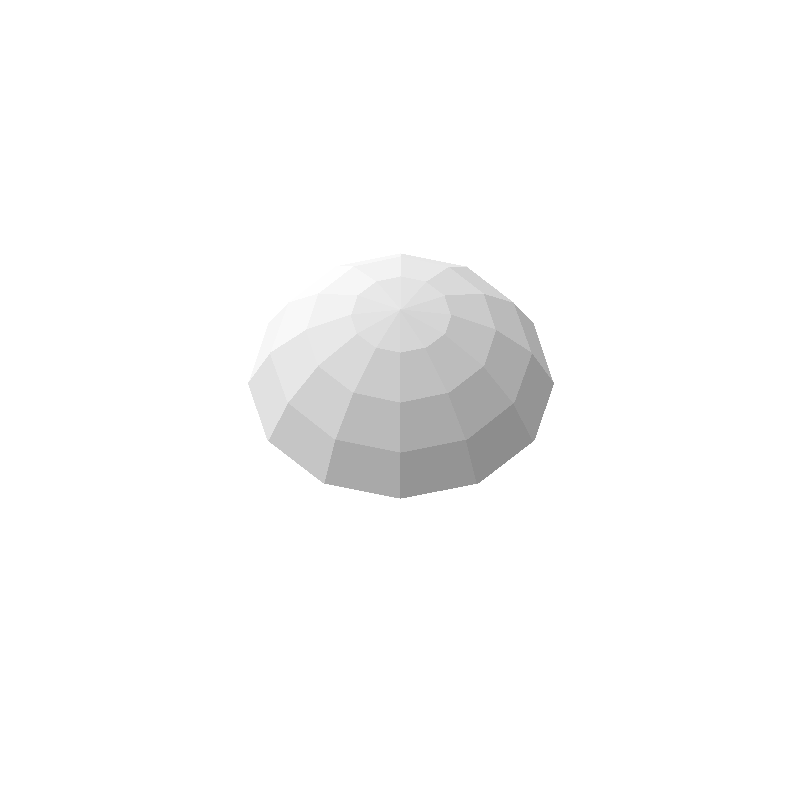
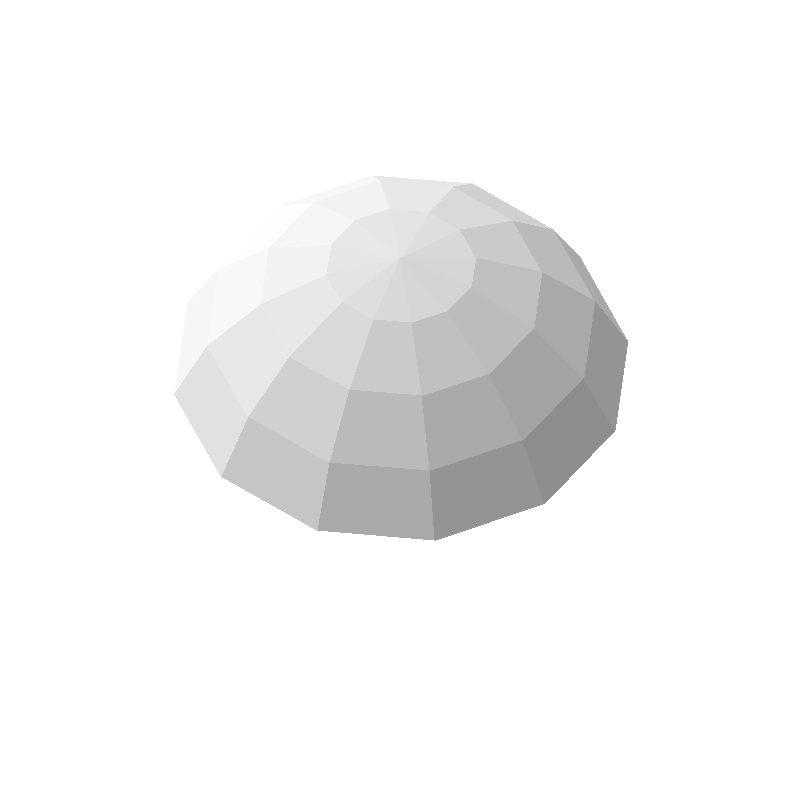
PyWeek37: tube renders

Changed region(s): [[0.2188, 0.2188, 0.7812, 0.6875], [0.5938, 0.4375, 0.625, 0.4688]]

diff --git a/pyweek37/src/render.py b/pyweek37/src/render.py
@@ -1,5 +1,5 @@
 import pygame, math
-from . import view, pview, maff
+from . import view, pview, maff, grid
 
 def minus(p0, p1):
 	x0, y0, z0 = p0
@@ -44,7 +44,7 @@ def renderquad(surf, pGs, color0):
 	rendertri(surf, (p1, p0, p2), color0)
 	rendertri(surf, (p1, p2, p3), color0)
 
-Rdome = 0.4
+Rdome = 0.6
 Rphi0 = 0.3
 
 def pdome(ftheta, fphi):
@@ -66,15 +66,69 @@ def renderdome(scale):
 	surf = pygame.Surface((2 * scale, 2 * scale)).convert_alpha()
 	surf.fill((0, 0, 0, 0))
 	for jtheta in range(ntheta):
-		theta0 = math.tau * jtheta / ntheta
-		theta1 = math.tau * ((jtheta + 1) % ntheta) / ntheta
 		for jphi in range(nphi):
-			phi0 = math.tau * jphi / nphi
-			phi1 = math.tau * ((jphi + 1) % nphi) / nphi
 			ps = [(theta, phi) for phi in (jphi, jphi + 1) for theta in (jtheta, jtheta + 1)]
 			pGs = [pdome(theta / ntheta, phi / nphi) for theta, phi in ps]
 			renderquad(surf, pGs, (255, 255, 255))
 	return surf
+
+rtube = 0.2
+def pstraight(ftheta, a, beta):
+	theta = math.tau * ftheta
+	x, y, z = rtube, 2/3 * grid.s * 1.01 * math.mix(-1, 1, a), 0
+	x, z = math.R(-theta, (x, z))
+	z += rtube
+	x, y = math.R(-beta, (x, y))
+	return x, y, z
+# d = -1 left turn, d = 1 right turn
+def pturn(ftheta, fphi, beta, d):
+	theta = math.tau * ftheta
+	phi = math.tau / 6 * (fphi * 1.02 - 0.01)
+	x, y, z = -d + rtube * math.cos(theta), 0, rtube * math.sin(theta)
+	x, y = math.R(-d * phi, (x, y))
+	x += d
+	y -= 2/3 * grid.s
+	z += rtube
+	x, y = math.R(-beta, (x, y))
+	return x, y, z
+
+def renderstraight(scale, beta):
+	view.VscaleG = scale
+	view.xG0, view.yG0 = 0, 0
+	pview.center = scale, scale
+	ntheta = 100
+	surf = pygame.Surface((2 * scale, 2 * scale)).convert_alpha()
+	surf.fill((0, 0, 0, 0))
+	for jtheta in range(ntheta):
+		ps = [(theta, a) for a in (1, 0) for theta in (jtheta, jtheta + 1)]
+		pGs = [pstraight(theta / ntheta, a, beta) for theta, a in ps]
+		renderquad(surf, pGs, (50, 50, 50))
+	for jtheta in range(ntheta):
+		ps = [(theta, a) for a in (0, 1) for theta in (jtheta, jtheta + 1)]
+		pGs = [pstraight(theta / ntheta, a, beta) for theta, a in ps]
+		renderquad(surf, pGs, (255, 255, 255))
+	return surf
+
+def renderturn(scale, beta, d):
+	view.VscaleG = scale
+	view.xG0, view.yG0 = 0, 0
+	pview.center = scale, scale
+	ntheta = 100
+	nphi = 40
+	surf = pygame.Surface((2 * scale, 2 * scale)).convert_alpha()
+	surf.fill((0, 0, 0, 0))
+	for jtheta in range(ntheta):
+		for jphi in range(nphi):
+			ps = [(theta, phi) for phi in (jphi, jphi + 1) for theta in (jtheta, jtheta + 1)]
+			pGs = [pturn(theta / ntheta, phi / nphi, beta, d) for theta, phi in ps]
+			renderquad(surf, pGs, (50, 50, 50))
+	for jtheta in range(ntheta):
+		for jphi in range(nphi):
+			ps = [(theta, phi) for phi in (jphi + 1, jphi) for theta in (jtheta, jtheta + 1)]
+			pGs = [pturn(theta / ntheta, phi / nphi, beta, d) for theta, phi in ps]
+			renderquad(surf, pGs, (255, 255, 255))
+	return surf
+
 
 
 if __name__ == "__main__":
@@ -82,14 +136,22 @@ if __name__ == "__main__":
 	pview.set_mode((800, 800))
 	setcamera()
 	pygame.image.save(renderdome(400), "img/dome.png")
-	while not any(event.type == pygame.QUIT for event in pygame.event.get()):
-		pview.fill((0, 0, 0))
-		view.tip = math.cycle(pygame.time.get_ticks() * 0.0002)
-		view.tilt = pygame.time.get_ticks() * 0.0001
-		setcamera()
-		img = renderdome(400)
-		pview.screen.blit(img, (0, 0))
-		pygame.display.flip()
+	for jbeta in range(6):
+		beta = jbeta * math.tau / 6
+		pygame.image.save(renderstraight(400, beta), f"img/tube-{jbeta}-{jbeta}.png")
+		jbetaL = (jbeta - 1) % 6
+		pygame.image.save(renderturn(400, beta, -1), f"img/tube-{jbeta}-{jbetaL}.png")
+		jbetaR = (jbeta + 1) % 6
+		pygame.image.save(renderturn(400, beta, 1), f"img/tube-{jbeta}-{jbetaR}.png")
+	if False:
+		while not any(event.type == pygame.QUIT for event in pygame.event.get()):
+			pview.fill((60, 30, 0))
+			view.tip = math.cycle(pygame.time.get_ticks() * 0.0002)
+			view.tilt = pygame.time.get_ticks() * 0.0001
+			setcamera()
+			img = renderturn(400, 0, 1)
+			pview.screen.blit(img, (0, 0))
+			pygame.display.flip()
 
 
 

diff --git a/pyweek37/src/state.py b/pyweek37/src/state.py
@@ -75,6 +75,7 @@ class Planet:
 		self.t += dt
 	def draw(self, glow = False):
 		graphics.drawdomeat(grid.GconvertH(self.pH))
+#		pygame.draw.circle(pview.screen, (255, 0, 255), view.DconvertG(grid.GconvertH(self.pH)), 3)
 	def draw_old(self, glow = False):
 		if not self.pH in visible:
 			return
@@ -99,7 +100,8 @@ class Planet:
 		
 	def info(self):
 		return [
-			f"pos: {self.pH}",
+			f"posH: {self.pH}",
+			f"posG: {grid.GconvertH(self.pH)}",
 			f"imports: {self.imports}",
 			f"demand: {self.demand}",
 			f"supply: {self.supply}",
@@ -119,10 +121,12 @@ class Tube:
 		self.consumer = None
 		self.supplied = False
 		self.t = 0
+		self.dirs = []
 	def think(self, dt):
 		self.t += dt
 	# Does not check for legality.
 	def add(self, pH):
+		self.dirs.append(grid.dirH(self.pHs[-1], pH))
 		self.pHs.append(pH)
 		if planetat(pH):
 			self.complete()
@@ -172,6 +176,7 @@ class Tube:
 			return True
 		if len(self.pHs) > 1 and pH == self.pHs[-1]:
 			self.pHs.pop()
+			self.dirs.pop()
 			return True
 		return False
 	# Drag interface. Either add to the end or back up 1.
@@ -180,6 +185,7 @@ class Tube:
 			return True
 		if len(self.pHs) > 1 and pH == self.pHs[-2]:
 			self.pHs.pop()
+			self.dirs.pop()
 			return True
 		return False
 	def pHalong(self, d):
@@ -203,6 +209,23 @@ class Tube:
 	def supplyto(self, planet):
 		return self.carry if planet is self.consumer and self.supplied and self.carry else None
 	def draw(self, glow = False):
+		pDs = [view.DconvertG(grid.GconvertH(pH)) for pH in self.pHs]
+		color = settings.colorcodes.get(self.carry, (160, 160, 160))
+		mix = (255, 255, 255) if glow else (0, 0, 0)
+		color = math.imix(color, mix, 0.5)
+		for j in range(len(self.dirs) - 1):
+			pG = grid.GconvertH(self.pHs[j+1])
+			graphics.drawtubeat(pG, color, self.dirs[j], self.dirs[j+1])
+		if self.carry and self.supplied:
+			d = self.supplier.t * 3 % 3
+			while True:
+				pH = self.pHalong(d)
+				if pH is None: break
+				pD = view.DconvertG(grid.GconvertH(pH))
+				beta = hud.factor(self.carry, "tube")
+				graphics.drawsymbolat(self.carry, pD, 0.7, beta)
+				d += 3
+	def draw_old(self, glow = False):
 		pDs = [view.DconvertG(grid.GconvertH(pH)) for pH in self.pHs]
 		color = settings.colorcodes.get(self.carry, (160, 160, 160))
 		mix = (255, 255, 255) if glow else (0, 0, 0)

diff --git a/pyweek37/src/graphics.py b/pyweek37/src/graphics.py
@@ -1,6 +1,6 @@
 import math, pygame, os.path
 from functools import cache
-from . import ptext, pview, view, settings
+from . import ptext, pview, view, settings, grid
 
 @cache
 def loadimg(filename):
@@ -23,6 +23,11 @@ def img0(iname, scale = 1, mask = None):
 def drawimgat(img, pD):
 	pview.screen.blit(img, img.get_rect(center = pD))
 
+def outlineH(pH):
+	pDs = [view.DconvertG(pG) for pG in grid.GoutlineH(pH)]
+	pygame.draw.lines(pview.screen, (0, 255, 255), True, pDs, 1)
+
+
 def drawsymbolatD(symbol, pD, fontsizeD, beta = 1):
 	color = math.imix((0, 0, 0), settings.colorcodes[symbol], beta)
 	ptext.draw(symbol, center = pD, color = color,
@@ -31,7 +36,13 @@ def drawsymbolat(symbol, pD, fontsizeG, beta = 1):
 	drawsymbolatD(symbol, pD, view.DscaleG(fontsizeG), beta)
 
 def drawdomeat(pG):
-	drawimgat(img0("dome", scale = view.VscaleG / 400, mask = (80, 100, 100)), view.DconvertG(pG))
+	scale = pview.f * view.VscaleG / 400
+	drawimgat(img0("dome", scale = scale, mask = (80, 100, 100)), view.DconvertG(pG))
+
+def drawtubeat(pG, mask, jbeta0, jbeta1):
+	scale = pview.f * view.VscaleG / 400
+	drawimgat(img0(f"tube-{jbeta0}-{jbeta1}", scale = scale, mask = mask), view.DconvertG(pG))
+	
 
 @cache
 def groundimg0():

diff --git a/pyweek37/src/grid.py b/pyweek37/src/grid.py
@@ -10,6 +10,7 @@ adjsH = [[0, 1], [1, 0], [1, -1], [0, -1], [-1, 0], [-1, 1]]
 outlinedH = [[1/3, 1/3], [2/3, -1/3], [1/3, -2/3],
 	[-1/3, -1/3], [-2/3, 1/3], [-1/3, 2/3]]
 adjsetH = set((dx, dy) for dx, dy in adjsH)
+adjdirH = {(dx, dy): j for j, (dx, dy) in enumerate(adjsH)}
 
 def HadjsH(pH):
 	xH, yH = pH
@@ -19,6 +20,11 @@ def isadjH(pH0, pH1):
 	xH0, yH0 = pH0
 	xH1, yH1 = pH1
 	return (xH1 - xH0, yH1 - yH0) in adjsetH
+
+def dirH(pH0, pH1):
+	xH0, yH0 = pH0
+	xH1, yH1 = pH1
+	return adjdirH.get((xH1 - xH0, yH1 - yH0))
 
 # pH1 is the midpoint of the segment [pH0, pH2]
 def isrowH(pH0, pH1, pH2):

diff --git a/pyweek37/src/playscene.py b/pyweek37/src/playscene.py
@@ -91,8 +91,7 @@ def draw():
 				fontsize = view.DscaleG(0.6), owidth = 2)
 	if building is not None:
 		for nextpH in building.nexts():
-			pDs = [view.DconvertG(pG) for pG in grid.GoutlineH(nextpH)]
-			pygame.draw.lines(pview.screen, (0, 255, 255), True, pDs, 1)
+			graphics.outlineH(nextpH)
 
 	for rock in state.rocks:
 		rock.draw(glow = rock is selected)
@@ -100,6 +99,7 @@ def draw():
 		tube.draw(glow = tube is selected)
 	for planet in state.planets:
 		planet.draw(glow = planet is selected)
+#		graphics.outlineH(planet.pH)
 	if building is not None:
 		building.draw(glow = True)
 

diff --git a/pyweek37/src/view.py b/pyweek37/src/view.py
@@ -13,8 +13,8 @@ def init():
 #   D: display coordinates
 
 xG0, yG0 = 0, 0
-VscaleG = 100  # VscaleG
-tilt = 0
+VscaleG = 100
+tilt = 0.15
 tip = 0.7
 
 def scootD(dx, dy):
